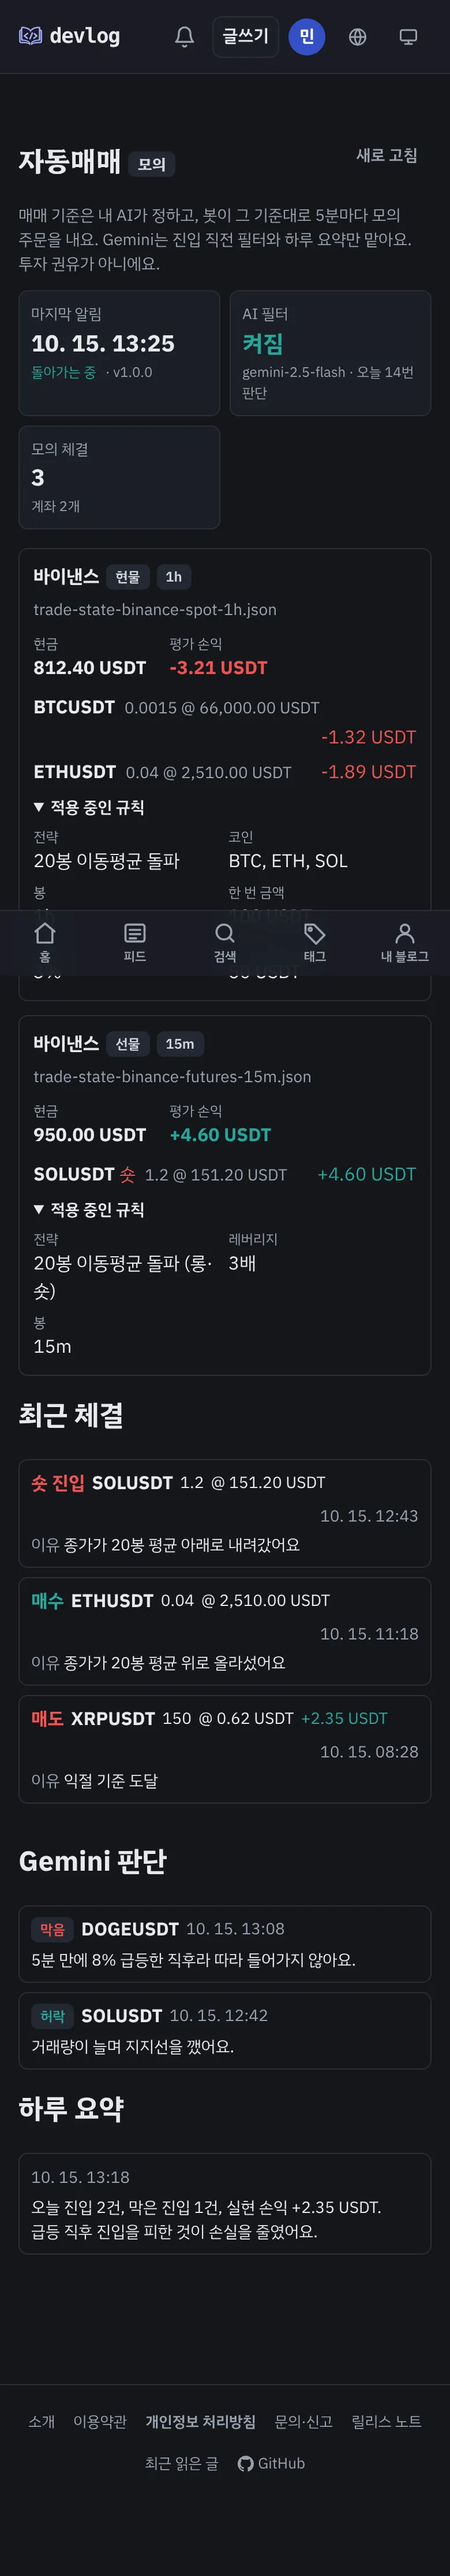
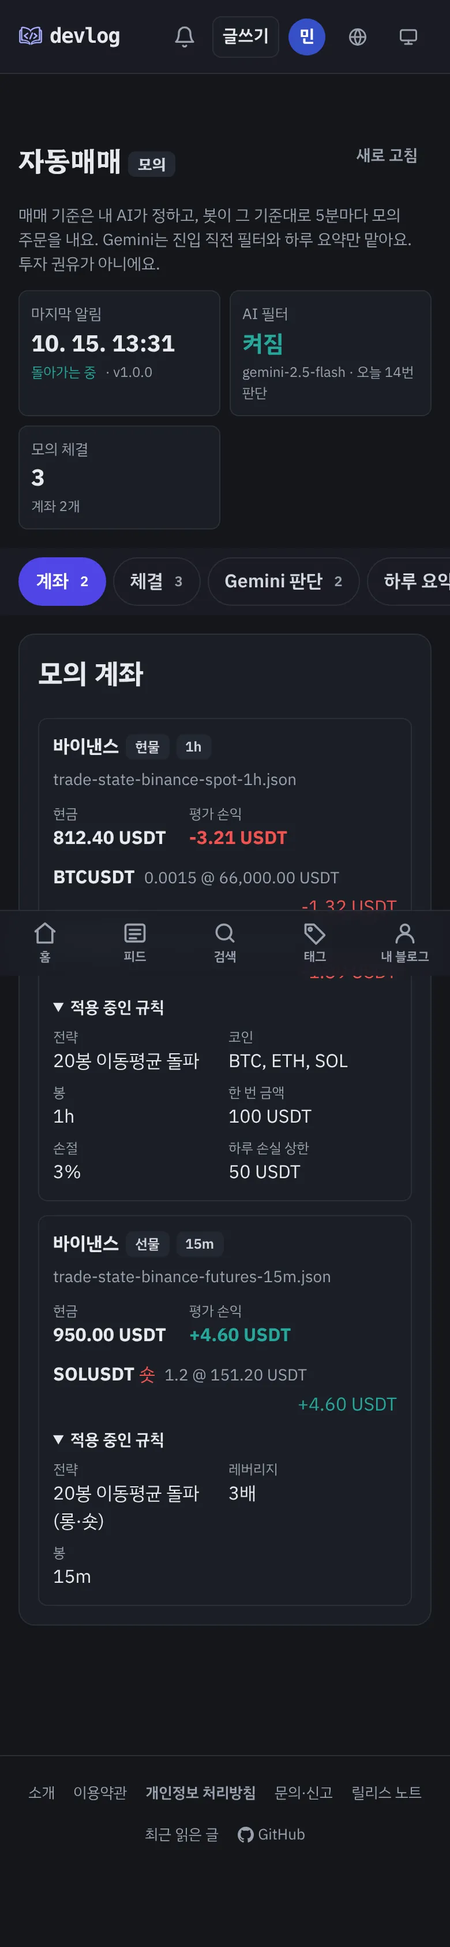
feat(trade): /trade를 계좌·체결·Gemini 판단·하루 요약 탭으로 나눔 (민서님 요청, 모바일)
Claude-Session: https://claude.ai/code/session_01EHjZN3D8Kby2KwiMkxejmq

diff --git a/app/frontend/src/pages/TradeBotPage.tsx b/app/frontend/src/pages/TradeBotPage.tsx
@@ -1,4 +1,5 @@
 import { useEffect, useState, type CSSProperties } from 'react'
+import { NavIcon, type IconName } from '../components/NavIcons'
 import { t } from '../lib/i18n'
 import { Link } from '../lib/router'
 import {
@@ -9,6 +10,20 @@ import { exchangeName, money, pnlClass, qty } from '../lib/trades'
 /** 봇은 5분마다 알리니 화면은 1분마다 다시 받는다 */
 const REFRESH_MS = 60_000
 
+/** 한 화면에 다 쌓으면 휴대폰에서 길어지니 내 포인트처럼 왼쪽 탭으로 나눈다(블로그 주인 요청). 휴대폰에서는 탭이 위에서 옆으로 밀린다. /trade#fills처럼 바로 열린다 */
+export const TRADE_BOT_TABS = [
+  { id: 'accounts', label: t('계좌'), hint: t('모의 계좌의 현금·보유 포지션·적용 중인 규칙'), icon: 'coin' },
+  { id: 'fills', label: t('체결'), hint: t('봇이 낸 모의 체결과 이유'), icon: 'trend' },
+  { id: 'ai', label: t('Gemini 판단'), hint: t('진입 직전에 Gemini가 허락하거나 막은 기록'), icon: 'ai' },
+  { id: 'summary', label: t('하루 요약'), hint: t('Gemini가 쓴 하루 매매 요약'), icon: 'posts' },
+] as const satisfies readonly { id: string; label: string; hint: string; icon: IconName }[]
+export type TradeBotTab = (typeof TRADE_BOT_TABS)[number]['id']
+
+export function tradeBotTabFromHash(hash: string): TradeBotTab {
+  const key = hash.replace(/^#/, '')
+  return TRADE_BOT_TABS.find((x) => x.id === key)?.id ?? 'accounts'
+}
+
 /**
  * 자동매매 모의 화면 (spec 101). 주소 /trade.
  * 내 AI(MCP)가 매매 기준을 정하고, 봇 코드가 그 기준으로 5분마다 모의 주문을 내며, 무료 Gemini는 진입 필터와 하루 요약만 맡는다.
@@ -17,11 +32,25 @@ const REFRESH_MS = 60_000
 export function TradeBotPage() {
   const [data, setData] = useState<BotView | null>(null)
   const [error, setError] = useState(false)
+  const [tab, setTab] = useState<TradeBotTab>(() => tradeBotTabFromHash(location.hash))
 
   const reload = () => {
     loadTradeBot().then((d) => { setData(d); setError(false) }).catch(() => setError(true))
   }
   useEffect(() => { document.title = t('자동매매 - devlog') }, [])
+  useEffect(() => {
+    const sync = () => setTab(tradeBotTabFromHash(location.hash))
+    window.addEventListener('hashchange', sync)
+    window.addEventListener('popstate', sync)
+    return () => { window.removeEventListener('hashchange', sync); window.removeEventListener('popstate', sync) }
+  }, [])
+  const open = (id: TradeBotTab) => {
+    if (id === tab) return
+    history.replaceState(null, '', `/trade#${id}`)
+    setTab(id)
+  }
+  const count = (id: TradeBotTab) => !data ? 0
+    : id === 'accounts' ? data.accounts.length : id === 'fills' ? data.fills.length : id === 'ai' ? data.decisions.length : data.summaries.length
   useEffect(() => {
     reload()
     const id = window.setInterval(reload, REFRESH_MS)
@@ -69,51 +98,70 @@ export function TradeBotPage() {
             </div>
           </div>
 
-          <section aria-label={t('모의 계좌')} className="tradebot-accounts">
-            {data.accounts.map((a) => <AccountCard key={a.account} account={a} />)}
-          </section>
-
-          <div className="trades-layout tradebot-layout">
-            <section aria-label={t('최근 체결')}>
-              <h2>{t('최근 체결')}</h2>
-              {data.fills.length === 0 ? <p className="muted small">{t('아직 체결이 없어요.')}</p> : (
-                <ul className="trades-fills">{data.fills.map((f) => <FillRow key={f.id} fill={f} />)}</ul>
+          <div className="settings-layout points-tabs tradebot-tabs">
+            <nav className="settings-nav" aria-label={t('자동매매 메뉴')}>
+              {TRADE_BOT_TABS.map((x) => (
+                <a key={x.id} href={`/trade#${x.id}`} aria-current={x.id === tab ? 'page' : undefined} data-tip={x.hint}
+                  onClick={(e) => { e.preventDefault(); open(x.id) }}>
+                  <NavIcon name={x.icon} /><span>{x.label}</span>
+                  <span className="tradebot-tab-count">{count(x.id)}</span>
+                </a>
+              ))}
+            </nav>
+            <div className="settings-panel" role="region" aria-label={TRADE_BOT_TABS.find((x) => x.id === tab)!.label}>
+              {tab === 'accounts' && (
+                <section className="tradebot-section">
+                  <h2>{t('모의 계좌')}</h2>
+                  {data.accounts.length === 0 ? <p className="muted small">{t('봇이 알린 모의 계좌가 없어요.')}</p> : (
+                    <div className="tradebot-accounts">{data.accounts.map((a) => <AccountCard key={a.account} account={a} />)}</div>
+                  )}
+                </section>
               )}
-            </section>
-            <div>
-              <section aria-label={t('Gemini 판단')}>
-                <h2>{t('Gemini 판단')}</h2>
-                {data.decisions.length === 0 ? <p className="muted small">{t('아직 판단 기록이 없어요.')}</p> : (
-                  <ul className="trades-fills">
-                    {data.decisions.map((d) => (
-                      <li key={d.id}>
-                        <div className="trades-fill-head">
-                          <span className={`badge ${d.verdict === 'ALLOW' ? 'tradebot-allow' : 'tradebot-block'}`}
-                            data-tip={d.verdict === 'ALLOW' ? t('Gemini가 진입을 허락했어요') : t('Gemini가 진입을 막았어요')}>
-                            {d.verdict === 'ALLOW' ? t('허락') : t('막음')}
-                          </span>
-                          {d.symbol && <strong>{d.symbol}</strong>}
-                          <span className="muted small">{eventTime(d.occurredAt)}</span>
-                        </div>
-                        {d.text && <p className="small tradebot-text">{d.text}</p>}
-                      </li>
-                    ))}
-                  </ul>
-                )}
-              </section>
-              <section aria-label={t('하루 요약')}>
-                <h2>{t('하루 요약')}</h2>
-                {data.summaries.length === 0 ? <p className="muted small">{t('아직 요약이 없어요.')}</p> : (
-                  <ul className="trades-fills">
-                    {data.summaries.map((s) => (
-                      <li key={s.id}>
-                        <span className="muted small">{eventTime(s.occurredAt)}</span>
-                        <p className="small tradebot-text">{s.text}</p>
-                      </li>
-                    ))}
-                  </ul>
-                )}
-              </section>
+              {tab === 'fills' && (
+                <section className="tradebot-section">
+                  <h2>{t('최근 체결')}</h2>
+                  {data.fills.length === 0 ? <p className="muted small">{t('아직 체결이 없어요.')}</p> : (
+                    <ul className="trades-fills">{data.fills.map((f) => <FillRow key={f.id} fill={f} />)}</ul>
+                  )}
+                </section>
+              )}
+              {tab === 'ai' && (
+                <section className="tradebot-section">
+                  <h2>{t('Gemini 판단')}</h2>
+                  {data.decisions.length === 0 ? <p className="muted small">{t('아직 판단 기록이 없어요.')}</p> : (
+                    <ul className="trades-fills">
+                      {data.decisions.map((d) => (
+                        <li key={d.id}>
+                          <div className="trades-fill-head">
+                            <span className={`badge ${d.verdict === 'ALLOW' ? 'tradebot-allow' : 'tradebot-block'}`}
+                              data-tip={d.verdict === 'ALLOW' ? t('Gemini가 진입을 허락했어요') : t('Gemini가 진입을 막았어요')}>
+                              {d.verdict === 'ALLOW' ? t('허락') : t('막음')}
+                            </span>
+                            {d.symbol && <strong>{d.symbol}</strong>}
+                            <span className="muted small">{eventTime(d.occurredAt)}</span>
+                          </div>
+                          {d.text && <p className="small tradebot-text">{d.text}</p>}
+                        </li>
+                      ))}
+                    </ul>
+                  )}
+                </section>
+              )}
+              {tab === 'summary' && (
+                <section className="tradebot-section">
+                  <h2>{t('하루 요약')}</h2>
+                  {data.summaries.length === 0 ? <p className="muted small">{t('아직 요약이 없어요.')}</p> : (
+                    <ul className="trades-fills">
+                      {data.summaries.map((x) => (
+                        <li key={x.id}>
+                          <span className="muted small">{eventTime(x.occurredAt)}</span>
+                          <p className="small tradebot-text">{x.text}</p>
+                        </li>
+                      ))}
+                    </ul>
+                  )}
+                </section>
+              )}
             </div>
           </div>
         </>

diff --git a/app/frontend/src/styles.css b/app/frontend/src/styles.css
@@ -2522,7 +2522,11 @@ html:is(:lang(ja), :lang(zh)) :is(.post-title, .markdown, .markdown *, .card-tit
 .tradebot-when { font-size: 1.25rem; }
 .tradebot-empty { margin-top: 16px; padding: 16px; border: 1px dashed var(--color-border); border-radius: var(--radius); }
 .tradebot-empty h2 { margin-top: 0; }
-.tradebot-accounts { display: grid; grid-template-columns: repeat(auto-fill, minmax(280px, 1fr)); gap: 12px; margin-top: 16px; }
+.tradebot-tabs .settings-panel { padding-top: 16px; padding-bottom: 16px; }
+.tradebot-section h2 { margin-top: 0; }
+.tradebot-tab-count { margin-left: auto; font-size: 0.75rem; font-weight: 600; color: var(--color-text-muted); font-variant-numeric: tabular-nums; }
+.settings-nav a[aria-current="page"] .tradebot-tab-count { color: inherit; }
+.tradebot-accounts { display: grid; grid-template-columns: repeat(auto-fill, minmax(260px, 1fr)); gap: 12px; }
 .tradebot-account { padding: 12px; border: 1px solid var(--color-border); border-radius: var(--radius); min-width: 0; }
 .tradebot-account-name { flex-basis: 100%; overflow: hidden; text-overflow: ellipsis; white-space: nowrap; }
 .tradebot-cash { display: flex; flex-wrap: wrap; gap: 4px 20px; margin: 10px 0; }
@@ -2537,7 +2541,6 @@ html:is(:lang(ja), :lang(zh)) :is(.post-title, .markdown, .markdown *, .card-tit
 .tradebot-text { margin: 4px 0 0; overflow-wrap: anywhere; white-space: pre-line; }
 .tradebot-allow { color: var(--color-up); border-color: var(--color-up); }
 .tradebot-block { color: var(--color-down); border-color: var(--color-down); }
-.tradebot-layout h2 { margin-top: 0; }
 
 /* 매매 재현 영상 (이슈 265) */
 .studio-replay-btn { margin-top: 8px; }

diff --git a/app/frontend/src/lib/locales/ja.ts b/app/frontend/src/lib/locales/ja.ts
@@ -1996,4 +1996,11 @@ export const ja: Record<string, string> = {
   "허락": "許可",
   "현금": "現金",
   "현물": "現物",
+  "자동매매 메뉴": "自動売買メニュー",
+  "봇이 알린 모의 계좌가 없어요.": "ボットから届いた模擬口座はありません。",
+  "계좌": "口座",
+  "모의 계좌의 현금·보유 포지션·적용 중인 규칙": "模擬口座の現金・保有ポジション・適用中のルール",
+  "봇이 낸 모의 체결과 이유": "ボットが出した模擬約定と理由",
+  "진입 직전에 Gemini가 허락하거나 막은 기록": "エントリー直前にGeminiが許可・ブロックした記録",
+  "Gemini가 쓴 하루 매매 요약": "Geminiが書いた1日の売買まとめ",
 }

diff --git a/app/frontend/src/lib/locales/en.ts b/app/frontend/src/lib/locales/en.ts
@@ -1996,4 +1996,11 @@ export const en: Record<string, string> = {
   "허락": "Allowed",
   "현금": "Cash",
   "현물": "Spot",
+  "자동매매 메뉴": "Auto trading menu",
+  "봇이 알린 모의 계좌가 없어요.": "The bot hasn't reported any paper accounts.",
+  "계좌": "Accounts",
+  "모의 계좌의 현금·보유 포지션·적용 중인 규칙": "Cash, open positions and active rules of each paper account",
+  "봇이 낸 모의 체결과 이유": "Paper fills the bot made and why",
+  "진입 직전에 Gemini가 허락하거나 막은 기록": "Entries Gemini allowed or blocked right before they happened",
+  "Gemini가 쓴 하루 매매 요약": "Daily trading summaries written by Gemini",
 }

diff --git a/app/frontend/src/lib/locales/zh.ts b/app/frontend/src/lib/locales/zh.ts
@@ -1996,4 +1996,11 @@ export const zh: Record<string, string> = {
   "허락": "允许",
   "현금": "现金",
   "현물": "现货",
+  "자동매매 메뉴": "自动交易菜单",
+  "봇이 알린 모의 계좌가 없어요.": "机器人还没有报告模拟账户。",
+  "계좌": "账户",
+  "모의 계좌의 현금·보유 포지션·적용 중인 규칙": "模拟账户的现金、持仓和当前规则",
+  "봇이 낸 모의 체결과 이유": "机器人的模拟成交及理由",
+  "진입 직전에 Gemini가 허락하거나 막은 기록": "入场前 Gemini 允许或拦下的记录",
+  "Gemini가 쓴 하루 매매 요약": "Gemini 写的每日交易总结",
 }

diff --git a/CHANGELOG.md b/CHANGELOG.md
@@ -11,7 +11,7 @@ main에 이 파일의 맨 위 버전이 새로 들어오면 `.github/workflows/r
 ## [Unreleased]
 
 ### 추가
-- 자동매매 모의 화면 `/trade`: 매매 봇이 MCP `report_trade_bot`으로 알린 모의 계좌(현금·보유 포지션·평가 손익·적용 중인 규칙), 최근 체결과 이유, Gemini 진입 판단(허락·막음), 하루 요약을 본인만 본다. 구조는 규칙형(내 AI가 기준, 봇 코드가 5분마다 주문, Gemini는 필터·요약). 매매 일지와 섞지 않는 전용 표에 두고 실계좌는 받지 않으며 30일 지나면 지운다. 화면에 주문 버튼은 없다. 내 메뉴 [자동매매 (모의)]. DB에 `trade_bot_status`·`trade_bot_account`·`trade_bot_event`가 생긴다(V48). 사진: `assets/releases/unreleased/trade-bot-*.webp` (spec 101)
+- 자동매매 모의 화면 `/trade`: 매매 봇이 MCP `report_trade_bot`으로 알린 모의 계좌(현금·보유 포지션·평가 손익·적용 중인 규칙), 최근 체결과 이유, Gemini 진입 판단(허락·막음), 하루 요약을 본인만 본다. 계좌·체결·Gemini 판단·하루 요약을 왼쪽 탭으로 나누고 휴대폰에서는 탭이 위에서 옆으로 밀린다(`/trade#fills`처럼 바로 열림). 구조는 규칙형(내 AI가 기준, 봇 코드가 5분마다 주문, Gemini는 필터·요약). 매매 일지와 섞지 않는 전용 표에 두고 실계좌는 받지 않으며 30일 지나면 지운다. 화면에 주문 버튼은 없다. 내 메뉴 [자동매매 (모의)]. DB에 `trade_bot_status`·`trade_bot_account`·`trade_bot_event`가 생긴다(V48). 사진: `assets/releases/unreleased/trade-bot-*.webp` (spec 101)
 - 매매 일지가 코인 거래소 체결을 받는다. `record_trade`에 거래소(`exchange`)와 통화(`currency`)를 적고, 0.00012345 BTC 같은 소수 수량·가격을 그대로 남긴다. 원화와 USDT는 더하지 않고 손익·수수료를 통화별로 따로 보여 준다. DB `trade`에 `exchange`·`currency` 열이 생기고 금액 자릿수가 넓어진다(V40). (#254)
 - 매매 재현 숏폼: 스튜디오의 [매매 재현 영상]에서 매매 일지의 체결(같은 거래소·종목, 1~6개, 메모를 남긴 날)을 고르면 대본이 생긴다. 렌더 워커가 바이낸스·업비트 공개 캔들(API 키 없음)을 가능한 한 1분봉으로 받아, 짧은 검은 연기 제목 카드 뒤로, 거래소 화면을 녹화해 빨리감기한 것처럼 지금 가격을 화면 가운데에 두고 카메라가 부드럽게 따라가는 차트가 끊김 없이 흐르며 체결 시각에 매수·매도가 찍히는 9:16 영상을 만든다. 체결 순간에만 아래 가운데 작은 자막(진입 흰색, 익절 초록·손절 빨강, 둘째 줄 손익 | 누적)과 체결 알림이 뜨고, 끝은 화면을 어둡게 눌러 결산을 띄운다. 배경음은 136bpm 다크 트랩(워커 합성)으로 제목 카드 뒤에 들어와 결산에서 작아진다. 차트는 Remotion 맞춤 장면(`remotion/src/Replay.tsx`)으로 그려 신경망 목소리·배경음·장면 전환이 다른 쇼츠와 같다. 봉은 자동 또는 1분~1일. 대본은 내 AI가 MCP `get_shorts`로 체결·메모를 읽고 `update_shorts_script`로 "지금 사는 이유" 식으로 다시 쓴다. 체결·익절·손절 효과음은 음악 밑에 작게, 워커가 직접 합성한다(음원 파일 없음). 투자 권유 고지는 대본에 넣지 않고 영상 맨 끝에 1.3초 카드 한 장으로 붙인다. 양산형 검사·하루 한도·직접 올리기 안내는 다른 쇼츠와 같다. DB `shorts`에 `replay` 열이 생긴다(V47). (#265)
 - 블로그 포인트 1단계: 포인트 원장(지갑 두 개: 투자 전용·상점), 가입 첫 지급 10,000,000P(모의투자 전용), 출석 보상(100 × 연속 출석 일수², 365일에 하루 13,322,500크레딧으로 멈춤)과 출석 알림(오늘 출석 전이면 화면 위에 한 줄), 연속 출석 휘장(20일 동·50일 은·100일 금·150일 비취·200일 청옥·300일 자수정 메달과 365일 햇살 별 특별 휘장, 블로그 이름 옆에 보임), 활동으로 번 포인트를 "크레딧"으로 표시, 처음 전체 공개한 글 적립(하루 3편·300자 이상), 모의투자 수익 적립 규칙, 내 포인트 화면(`/points`, 내 설정처럼 왼쪽 탭: 출석·휘장·크레딧 얻는 법·내역), 관리자 포인트 규칙 화면(`/admin/points`). `POINTS_ENABLED`로 켠다(기본 꺼짐). DB에 `point_ledger`·`point_attendance`·`point_rule`·`point_badge`가 생긴다(V43). ([#266](https://github.com/AIGJ-01-002-blog/devlog/issues/266), 목표 [#253](https://github.com/AIGJ-01-002-blog/devlog/issues/253))

diff --git a/specs/101-trade-bot-page/spec.md b/specs/101-trade-bot-page/spec.md
@@ -28,7 +28,7 @@
 - **FR-001**: V48에 `trade_bot_status`(AI 필터 켜짐·모델·오늘 호출 수·봇 버전·마지막 알림), `trade_bot_account`(계좌·거래소·시장·통화·현금·평가 손익·positions·rules JSON), `trade_bot_event`(FILL·AI·SUMMARY, 회원+사건 번호 고유)를 둔다. 탈퇴 정리 때 지운다.
 - **FR-002**: MCP 도구 `report_trade_bot`(쓰기 토큰, `TRADES_ENABLED`일 때만 보임). `accounts`를 주면 그 목록으로 계좌를 통째로 바꾸고, 빼면 그대로 둔다. `events`는 한 번에 200건까지.
 - **FR-003**: `GET /api/me/trade-bot`은 로그인한 본인 것만 돌려준다. 체결 50건·판단 30건·요약 7건(최근 30일). `TRADES_ENABLED`가 꺼져 있으면 404.
-- **FR-004**: 화면 `/trade`는 1분마다 다시 받는다. 주문·설정을 바꾸는 버튼은 없다.
+- **FR-004**: 화면 `/trade`는 1분마다 다시 받는다. 계좌·체결·Gemini 판단·하루 요약을 내 포인트처럼 왼쪽 탭으로 나눈다(블로그 주인 요청 "한 페이지에 많으면 모바일로 보기 힘드니 옆에 탭을 나눠서"). 휴대폰에서는 탭이 위에서 옆으로 밀리고, `/trade#ai`처럼 바로 열린다. 주문·설정을 바꾸는 버튼은 없다.
 
 ## 봇이 보낼 모양 (trade-bot 저장소 작업)
 
